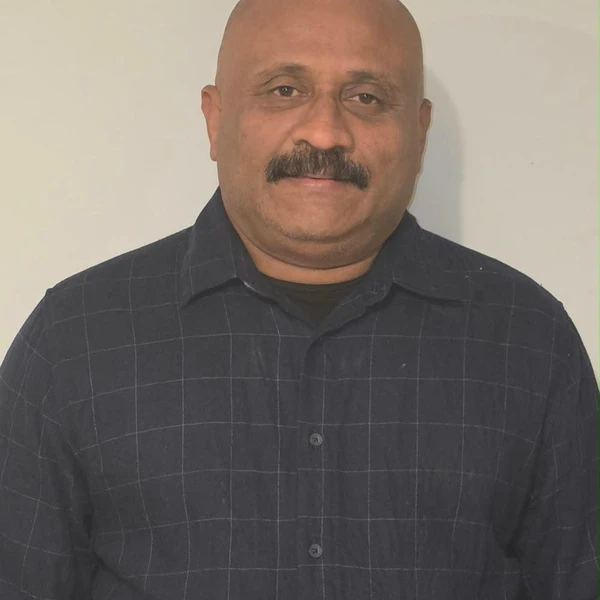
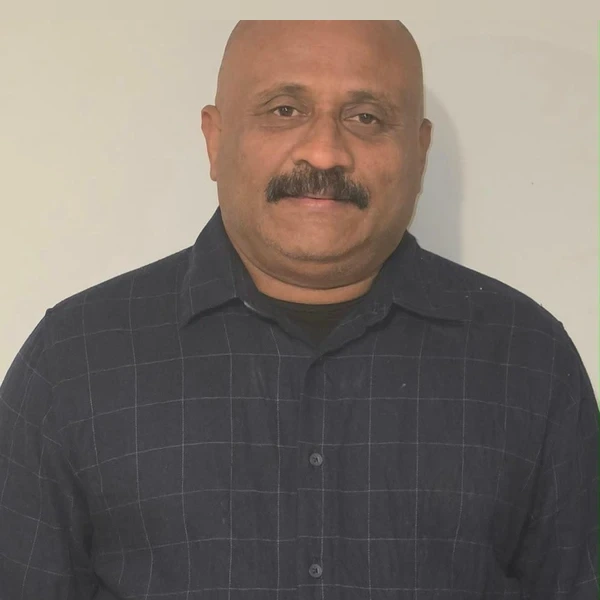
fix(main): update Late Biju V Sreedharan name and adjust Siby Varghese photo framing

diff --git a/index.html b/index.html
@@ -2905,14 +2905,14 @@
             </div>
           </div>
 
-          <!-- 2. Late Bijumon Sreedharan -->
+          <!-- 2. Late Biju V Sreedharan -->
           <div class="comm-card" data-r="0.05">
             <div class="comm-photo-wrap">
-              <img src="images/committee_sq/bijumon-sreedharan.webp" alt="Late Bijumon Sreedharan - Lifetime Trustee" loading="lazy">
+              <img src="images/committee_sq/bijumon-sreedharan.webp" alt="Late Biju V Sreedharan - Lifetime Trustee" loading="lazy">
               <span class="comm-role-badge memorial">Late Trustee</span>
             </div>
             <div class="comm-info">
-              <h4>Late Bijumon Sreedharan</h4>
+              <h4>Late Biju V Sreedharan</h4>
               <span class="designation">Lifetime Trustee &bull; In Loving Memory</span>
             </div>
           </div>

diff --git a/archive/legacy-pages/eia-pitch.html b/archive/legacy-pages/eia-pitch.html
@@ -2898,14 +2898,14 @@
             </div>
           </div>
 
-          <!-- 2. Bijumon Sreedharan -->
+          <!-- 2. Late Biju V Sreedharan -->
           <div class="comm-card" data-r="0.05">
             <div class="comm-photo-wrap">
-              <img src="images/committee_sq/bijumon-sreedharan.jpg" alt="Bijumon Sreedharan — Lifetime Trustee" loading="lazy">
+              <img src="images/committee_sq/bijumon-sreedharan.jpg" alt="Late Biju V Sreedharan — Lifetime Trustee" loading="lazy">
               <span class="comm-role-badge trustee">Trustee</span>
             </div>
             <div class="comm-info">
-              <h4>Bijumon Sreedharan</h4>
+              <h4>Late Biju V Sreedharan</h4>
               <span class="designation">Lifetime Trustee</span>
             </div>
           </div>

diff --git a/archive/legacy-pages/main.html b/archive/legacy-pages/main.html
@@ -2785,14 +2785,14 @@
             </div>
           </div>
 
-          <!-- 2. Bijumon Sreedharan -->
+          <!-- 2. Late Biju V Sreedharan -->
           <div class="comm-card" data-r="0.05">
             <div class="comm-photo-wrap">
-              <img src="images/committee_sq/bijumon-sreedharan.jpg" alt="Bijumon Sreedharan — Lifetime Trustee" loading="lazy">
+              <img src="images/committee_sq/bijumon-sreedharan.jpg" alt="Late Biju V Sreedharan — Lifetime Trustee" loading="lazy">
               <span class="comm-role-badge trustee">Trustee</span>
             </div>
             <div class="comm-info">
-              <h4>Bijumon Sreedharan</h4>
+              <h4>Late Biju V Sreedharan</h4>
               <span class="designation">Lifetime Trustee</span>
             </div>
           </div>
